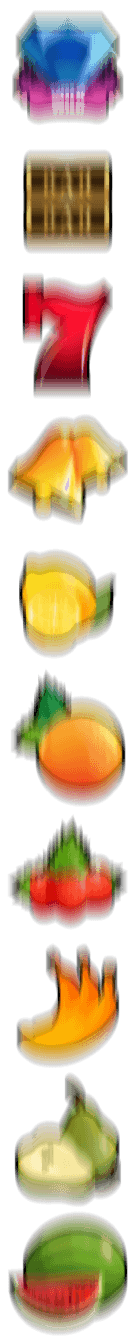
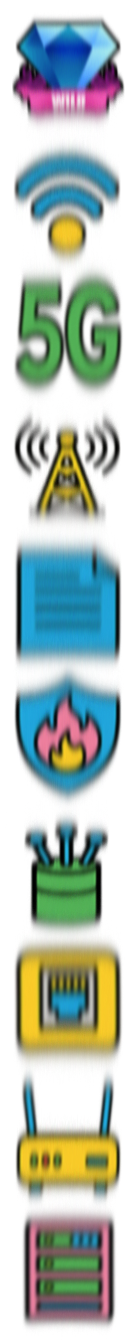
Fix SlotMachine.js

diff --git a/backend/src/main/webapp/js/scenes/SlotMachine.js b/backend/src/main/webapp/js/scenes/SlotMachine.js
@@ -5,91 +5,71 @@ export class SlotMachine extends Phaser.Scene {
   constructor(){ super('SlotMachine'); }
 
   preload(){
-    // --- mêmes clés que ton Slot.js ---
     this.load.image('slotBg',    'assets/slot/slot-background.png');
     this.load.image('slotFrame', 'assets/slot/cadre-slot.png');
-
-    // Strip unique du rouleau (net + blur) — une colonne de symboles empilés verticalement
-    this.load.image('reel_clear', 'assets/slot/reel_clear.png');
-    this.load.image('reel_blur',  'assets/slot/reel_blur.png');
-
-    // UI
-    this.load.image('spinBtn', 'assets/slot/spin.png');
+    this.load.image('reel_clear','assets/slot/reel_clear.png');
+    this.load.image('reel_blur', 'assets/slot/reel_blur.png');
+    this.load.image('spinBtn',   'assets/slot/spin.png');
   }
 
   create(){
     const { width:W, height:H } = this.scale.gameSize;
-    const DEPTH = { bg:0, reels:150, frame:300, ui:320, overlay:330 };
+    // >>> TEMP: reels DEVANT le cadre pour debug visibilité <<<
+    const DEPTH = { bg:0, frame:300, reels:350, ui:360, overlay:370 };
 
-    // --- sécurité assets
-    ['slotBg','slotFrame','reel_clear','reel_blur','spinBtn'].forEach(k=>{
-      if (!this.textures.exists(k)) console.warn(`[SlotMachine] Texture manquante: ${k}`);
-    });
-
-    // --- BG derrière tout
     this.cameras.main.setBackgroundColor('#0d1117');
     this.add.image(W/2, H/2, 'slotBg').setDisplaySize(W, H).setDepth(DEPTH.bg);
 
-    // === RÉGLAGES VISUELS (dans l’esprit de Slot.js) ===
+    // Fenêtre des rouleaux (même logique que Slot.js)
     const COLS = 5, ROWS = 3;
-    const REELS_WIDTH   = Math.min(680, W * 0.74);
-    const REELS_HEIGHT  = Math.min(440, H * 0.42);
-    const REELS_OFFSET_X= 0;
-    const REELS_OFFSET_Y= 45;
-    const GAP_X         = 15;
+    const REELS_WIDTH  = Math.min(680, W * 0.74);
+    const REELS_HEIGHT = Math.min(440, H * 0.42);
+    const REELS_OFFSET_X = 0;
+    const REELS_OFFSET_Y = 45;
+    const GAP_X = 15;
 
-    // Fenêtre des rouleaux
     const reelW   = (REELS_WIDTH - (COLS - 1) * GAP_X) / COLS;
     const reelH   = REELS_HEIGHT;
     const winLeft = (W - REELS_WIDTH)/2 + REELS_OFFSET_X;
     const winTop  = (H - REELS_HEIGHT)/2 + REELS_OFFSET_Y;
 
-    // --- Lecture dynamique des dimensions du strip
-    const stripImg = this.textures.get('reel_clear')?.getSourceImage();
-    const STRIP_W  = stripImg?.width  || 134;   // fallback safe
-    const STRIP_H  = stripImg?.height || 1340;  // fallback safe
-
-    // Si ton strip a 10 symboles, ça donnera ~10. Si différent, adapte ici.
-    const SYMBOL_CNT = Math.max(1, Math.round(STRIP_H / Math.round(STRIP_H / 10)));
+    // Mesure réelle du strip
+    const src = this.textures.get('reel_clear')?.getSourceImage();
+    const STRIP_W = src?.width  || 134;
+    const STRIP_H = src?.height || 1340;
+    // nb de symboles d’après l’image (ex: 10)
+    const SYMBOL_CNT = Math.max(1, Math.round(STRIP_H / Math.round(STRIP_H/10)));
     const SYMBOL_H   = Math.floor(STRIP_H / SYMBOL_CNT);
 
-    // --- REELS entre BG et FRAME (donc visibles)
+    // Reels (tileSprite) — AU PREMIER PLAN TEMPORAIREMENT
     this.reels = [];
     for (let i=0;i<COLS;i++){
       const x = winLeft + i*(reelW + GAP_X) + reelW/2;
       const y = winTop  + reelH/2;
-      const spr = this.add.tileSprite(x, y, reelW, reelH, 'reel_clear').setDepth(DEPTH.reels);
+      const spr = this.add.tileSprite(x, y, reelW, reelH, 'reel_clear')
+        .setOrigin(0.5)
+        .setDepth(DEPTH.reels);
 
-      // Montrer exactement 3 symboles dans la fenêtre :
-      // - on remplit la largeur (strip = 1 colonne) → scaleX par rapport à la largeur réelle du strip
-      // - on montre 3 symboles en hauteur → scaleY tel que 3*SYMBOL_H = reelH
+      // montrer 3 symboles
       spr.tileScaleX = reelW / STRIP_W;
       spr.tileScaleY = reelH / (ROWS * SYMBOL_H);
 
-      // Position texture de départ (px)
-      spr.tilePositionY = Phaser.Math.Between(0, STRIP_H - 1);
+      // position texture initiale + petite teinte pour debug
+      spr.tilePositionY = Phaser.Math.Between(0, STRIP_H-1);
+      // spr.setTint(0x88ffffff); // décommente si besoin pour “voir” les reels
 
-      this.reels.push({ sprite: spr });
+      this.reels.push({ sprite:spr });
     }
 
-    // --- CADRE par-dessus (ton format exact)
+    // Cadre (format exact demandé)
     const FRAME_PAD_X = 0.80;
     const FRAME_PAD_Y = 0.98;
     const frame = this.add.image(W/2, H/2, 'slotFrame').setDepth(DEPTH.frame);
     frame.setScale((W / frame.width) * FRAME_PAD_X, (H / frame.height) * FRAME_PAD_Y);
 
-    // --- (Optionnel) DEBUG pour vérifier la fenêtre des rouleaux
-    const SHOW_DEBUG = false;
-    if (SHOW_DEBUG){
-      const dbg = this.add.graphics().setDepth(DEPTH.frame - 1);
-      dbg.lineStyle(2, 0x00ff00, 0.7);
-      dbg.strokeRect(winLeft, winTop, REELS_WIDTH, REELS_HEIGHT);
-    }
-
-    // --- UI lignes + spin
+    // UI (lignes fixes + spin)
     this.lineOptions = [1,3,5];
-    this.lines = 3;
-    this.bet = this.lines;
+    this.lines = 3; this.bet = 3;
 
     this.status = this.add.text(W/2, winTop - 40, '', {
       fontFamily:'monospace', fontSize:18, color:'#e6f1ff'
@@ -97,13 +77,12 @@ export class SlotMachine extends Phaser.Scene {
     this._refreshStatus();
 
     const linesY = winTop + reelH + 16;
-    this._lineButtonGroup(W/2, linesY);
+    this._lineButtons(W/2, linesY);
 
     const spinY = linesY + 44;
     const spin = this.add.image(W/2, spinY, 'spinBtn')
       .setDepth(DEPTH.overlay)
       .setInteractive({ useHandCursor:true });
-
     const spinScale = Math.min(W, H) / 2000;
     spin.setScale(0.25 * spinScale);
     spin.on('pointerdown', ()=> spin.setScale(0.235 * spinScale));
@@ -112,25 +91,25 @@ export class SlotMachine extends Phaser.Scene {
       await this._doSpin({ SYMBOL_H, STRIP_H, SYMBOL_CNT });
     });
 
+    // Touche D = toggle profondeur (reels devant/derrière pour vérifier le cadre)
+    this.input.keyboard.on('keydown-D', ()=>{
+      const top = (this.reels[0].sprite.depth > frame.depth);
+      this.reels.forEach(r=> r.sprite.setDepth(top ? DEPTH.frame - 1 : DEPTH.reels));
+    });
+
     this.spinning = false;
   }
 
-  // ---------- UI ----------
-  _lineButtonGroup(cx, y){
+  _lineButtons(cx, y){
     const gap = 120;
-    this.lineBtns = this.lineOptions.map((v, idx)=>{
-      return this._btn(cx + (idx-1)*gap, y, `${v} Lines`, ()=>{
-        this.lines = v; this.bet = v; this._refreshStatus();
-      });
+    this.lineBtns = this.lineOptions.map((v, i)=>{
+      const c  = this.add.container(cx + (i-1)*gap, y).setDepth(360);
+      const bg = this.add.rectangle(0,0,120,30,0x14253a).setStrokeStyle(1,0x6fb1ff).setInteractive({useHandCursor:true});
+      const tx = this.add.text(0,0,`${v} Lines`,{fontFamily:'monospace',fontSize:14,color:'#eaffff'}).setOrigin(0.5);
+      bg.on('pointerdown',()=> bg.setScale(0.98));
+      bg.on('pointerup',()=>{ bg.setScale(1); this.lines=v; this.bet=v; this._refreshStatus(); });
+      c.add([bg,tx]); c.bg = bg; return c;
     });
-  }
-  _btn(x,y,label,on){
-    const c  = this.add.container(x,y).setDepth(320);
-    const bg = this.add.rectangle(0,0,120,30,0x14253a).setStrokeStyle(1,0x6fb1ff).setInteractive({useHandCursor:true});
-    const tx = this.add.text(0,0,label,{fontFamily:'monospace',fontSize:14,color:'#eaffff'}).setOrigin(0.5);
-    bg.on('pointerdown',()=> bg.setScale(0.98));
-    bg.on('pointerup',()=>{ bg.setScale(1); on&&on(); });
-    c.add([bg,tx]); c.bg = bg; return c;
   }
   _refreshStatus(){
     this.status.setText(`Lines: ${this.lines}   •   Bet: ${this.bet}`);
@@ -143,7 +122,6 @@ export class SlotMachine extends Phaser.Scene {
     }
   }
 
-  // ---------- util ----------
   _rowsFromPos(tilePosY, SYMBOL_H, STRIP_H){
     const r = (tilePosY % STRIP_H + STRIP_H) % STRIP_H;
     return r / SYMBOL_H;
@@ -153,84 +131,60 @@ export class SlotMachine extends Phaser.Scene {
     return ((px % STRIP_H) + STRIP_H) % STRIP_H;
   }
 
-  // ---------- SPIN ----------
   async _doSpin(ctx){
     if (this.spinning) return;
     this.spinning = true;
 
-    // Résultat backend (fallback local)
     let grid;
-    try {
+    try{
       const res = await api('api/slot/spin', { method:'POST', body:{ bet:this.bet, lines:this.lines } });
       grid = Array.isArray(res.grid) ? res.grid : null;
       if (typeof res.credits === 'number') this.game.events.emit('credits:update', res.credits);
-    } catch { grid = null; }
-    if (!grid || grid.length < 5) grid = this._randomGrid(5,3);
+    }catch{ grid = null; }
+    if (!grid || grid.length<5) grid = this._randomGrid(5,3);
 
-    // Phases : lift → spin (BLUR) → clear → stop
-    const STAGGER     = 500;
-    const LIFT_ROWS   = 0.35;
-    const LIFT_MS     = 140;
-    const SPIN_MS     = 3000;
-    const STOP_MS     = 1100;
-    const BASE_CYCLES = 6;
-    const SPIN_DIR    = -1;  // -1 = descend (sens slot)
+    // Phases
+    const STAGGER=500, LIFT_ROWS=0.35, LIFT_MS=140, SPIN_MS=3000, STOP_MS=1100, BASE_CYCLES=6;
+    const SPIN_DIR=-1; // descend
 
     const promises = this.reels.map((rw, i)=>{
       const spr = rw.sprite;
-
-      // Cible: index du symbole qui devra apparaître en haut à l’arrêt
-      // (si ton backend te renvoie [top, mid, bot], ici on prend top = grid[i][0])
       const targetTopIndex =
-        (Array.isArray(grid[i]) && grid[i].length >= 3 && Number.isInteger(grid[i][0]))
-          ? grid[i][0]
-          : Phaser.Math.Between(0, ctx.SYMBOL_CNT-1);
+        (Array.isArray(grid[i]) && grid[i].length>=3 && Number.isInteger(grid[i][0]))
+          ? grid[i][0] : Phaser.Math.Between(0, ctx.SYMBOL_CNT-1);
 
       return new Promise(resolve=>{
-        this.time.delayedCall(i * STAGGER, ()=>{
+        this.time.delayedCall(i*STAGGER, ()=>{
 
-          // Aligne la position texture de départ sur une ligne entière (évite jitters)
           const startRows = Math.round(this._rowsFromPos(spr.tilePositionY, ctx.SYMBOL_H, ctx.STRIP_H));
           spr.tilePositionY = this._posFromRows(startRows, ctx.SYMBOL_H, ctx.STRIP_H);
 
-          // Distances en "lignes"
           const rLift = startRows + SPIN_DIR * LIFT_ROWS;
-          const spinRows = (BASE_CYCLES + i) * ctx.SYMBOL_CNT;
-          const rSpin = rLift + SPIN_DIR * spinRows;
+          const rSpin = rLift    + SPIN_DIR * ((BASE_CYCLES + i) * ctx.SYMBOL_CNT);
 
-          // On veut (rStop mod N) == targetTopIndex (dans le sens du spin)
+          // distance à la cible (respecte le sens visuel)
           const rem = ((rSpin % ctx.SYMBOL_CNT) + ctx.SYMBOL_CNT) % ctx.SYMBOL_CNT;
           let delta;
-          if (SPIN_DIR === 1) {
-            // monte (visuel monte)
-            delta = (targetTopIndex - rem + ctx.SYMBOL_CNT) % ctx.SYMBOL_CNT;
-          } else {
-            // descend (visuel descend) => on remonte la "distance" en rows
-            delta = (rem - targetTopIndex + ctx.SYMBOL_CNT) % ctx.SYMBOL_CNT;
-            delta = -delta;
-          }
+          if (SPIN_DIR === 1) delta = (targetTopIndex - rem + ctx.SYMBOL_CNT) % ctx.SYMBOL_CNT;
+          else { delta = (rem - targetTopIndex + ctx.SYMBOL_CNT) % ctx.SYMBOL_CNT; delta = -delta; }
           const rStop = rSpin + delta;
 
-          // 1) LIFT
+          // LIFT
           this.tweens.addCounter({
-            from: startRows, to: rLift, duration: LIFT_MS, ease: 'Sine.easeOut',
-            onUpdate: (tw, obj)=> spr.tilePositionY = this._posFromRows(obj.value, ctx.SYMBOL_H, ctx.STRIP_H),
+            from: startRows, to: rLift, duration: LIFT_MS, ease:'Sine.easeOut',
+            onUpdate:(tw,o)=> spr.tilePositionY = this._posFromRows(o.value, ctx.SYMBOL_H, ctx.STRIP_H),
             onComplete: ()=>{
-              // Passe en BLUR au début du spin rapide
-              spr.setTexture('reel_blur');
-
-              // 2) SPIN rapide
+              spr.setTexture('reel_blur'); // BLUR au début du rapide
+              // SPIN rapide
               this.tweens.addCounter({
-                from: rLift, to: rSpin, duration: SPIN_MS, ease: 'Linear',
-                onUpdate: (tw, obj)=> spr.tilePositionY = this._posFromRows(obj.value, ctx.SYMBOL_H, ctx.STRIP_H),
+                from: rLift, to: rSpin, duration: SPIN_MS, ease:'Linear',
+                onUpdate:(tw,o)=> spr.tilePositionY = this._posFromRows(o.value, ctx.SYMBOL_H, ctx.STRIP_H),
                 onComplete: ()=>{
-                  // repasse en net AVANT le freinage
-                  spr.setTexture('reel_clear');
-
-                  // 3) STOP doux jusqu’à la cible exacte
+                  spr.setTexture('reel_clear'); // CLEAR avant le freinage
+                  // STOP
                   this.tweens.addCounter({
-                    from: rSpin, to: rStop, duration: STOP_MS, ease: 'Cubic.easeOut',
-                    onUpdate: (tw, obj)=> spr.tilePositionY = this._posFromRows(obj.value, ctx.SYMBOL_H, ctx.STRIP_H),
+                    from: rSpin, to: rStop, duration: STOP_MS, ease:'Cubic.easeOut',
+                    onUpdate:(tw,o)=> spr.tilePositionY = this._posFromRows(o.value, ctx.SYMBOL_H, ctx.STRIP_H),
                     onComplete: resolve
                   });
                 }
@@ -246,7 +200,6 @@ export class SlotMachine extends Phaser.Scene {
     this.spinning = false;
   }
 
-  // ---------- random helpers ----------
   _randomCol(rows){ return Array.from({length:rows}, ()=> Phaser.Utils.Array.GetRandom([0,1,2,3,4,5,6,7,8,9])); }
   _randomGrid(cols, rows){ return Array.from({length:cols}, ()=> this._randomCol(rows)); }
 }
